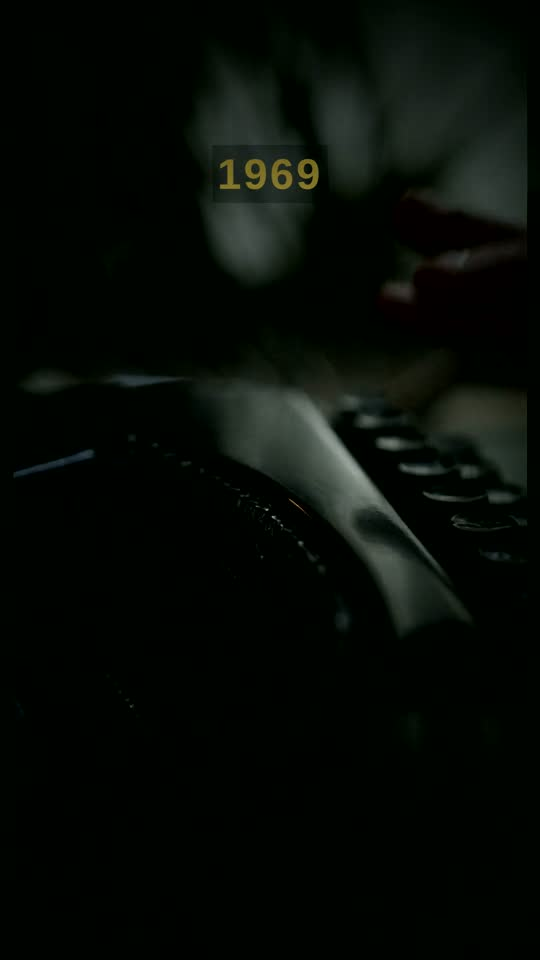
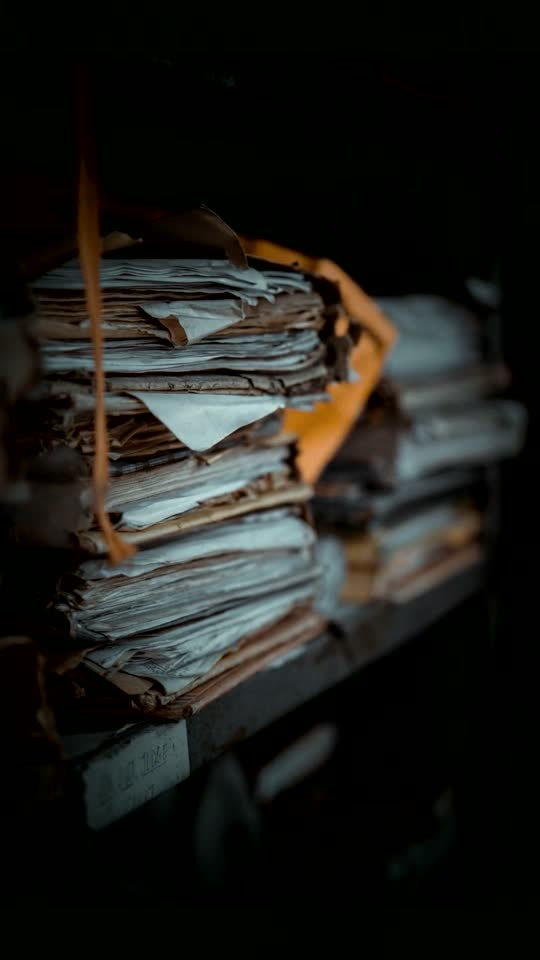
77s cap, hook/audio sync, stills to end clip repetition

diff --git a/theories.html b/theories.html
@@ -789,7 +789,7 @@ footer a{color:var(--dim)}
       <p class="why">ANGER — broad-appeal set: things true of the viewer&#x27;s own body, water or kitchen.</p>
 
       <p class="lbl">Script as recorded</p>
-      <div class="script"><p>There is a memo from 1969 that explains almost every argument you have ever had about science.</p><p>Everyone knows how this story ends. Smoking causes cancer, the industry denied it for decades, and eventually they lost.</p><p>But go back through their internal documents and something is missing. They almost never claimed cigarettes were safe. Not in writing.</p><p>What they wrote instead was a strategy. One line, from an internal memo. Doubt is our product, since it is the best means of competing with the body of fact that exists in the mind of the general public.</p><p>Read that again, and notice what is not in it. There is no mention of tobacco. Nothing in that sentence is about cigarettes at all.</p><p>And here is where the comfortable version breaks. That memo is not a defence. It is a method, written down in general terms, by people who understood exactly what they were doing.</p><p>We only know about it because litigation forced roughly fourteen million internal pages into a public archive. It is searchable. Anyone can read the strategy that was used on their own parents.</p><p>They never needed to win the argument. They only needed to keep it open. On that measure it worked for about forty years, which is roughly one human lifetime of delay.</p><p>It is four sentences long. And it is still the most effective thing ever written about how people accept evidence, written by people trying to stop them.</p></div>
+      <div class="script"><p>In 1969, someone wrote down how to defeat science. It worked for forty years.</p><p>Everyone knows how this ends. Smoking causes cancer, the industry denied it, and they lost.</p><p>But read their internal documents and something is missing. They almost never claimed cigarettes were safe. Not in writing.</p><p>What they wrote was a strategy. Doubt is our product, since it is the best means of competing with the body of fact in the mind of the general public.</p><p>Read it again. Nothing in that sentence is about tobacco.</p><p>And that is where the comfortable version breaks. It is not a defence. It is a method.</p><p>We only know because litigation forced fourteen million internal pages into a public archive. Searchable, today.</p><p>They never needed to win the argument. Only to keep it open.</p><p>Four sentences. Still the most effective thing ever written about how people accept evidence, by people trying to stop them.</p></div>
 
       <details>
         <summary>The verified facts underneath it</summary>
